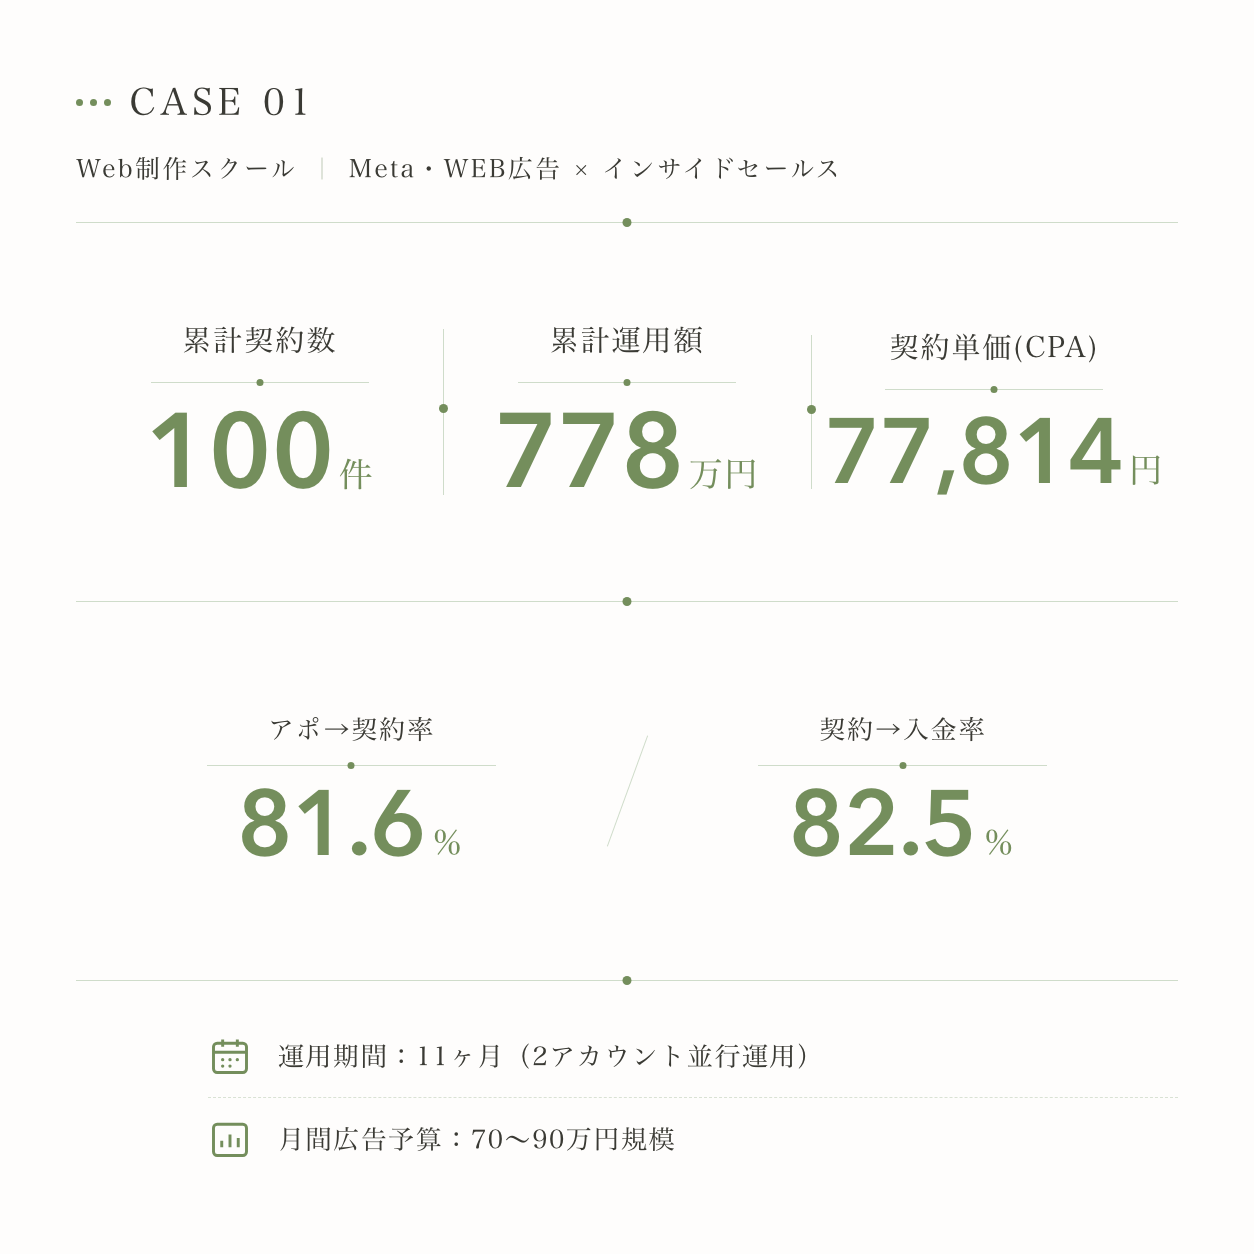
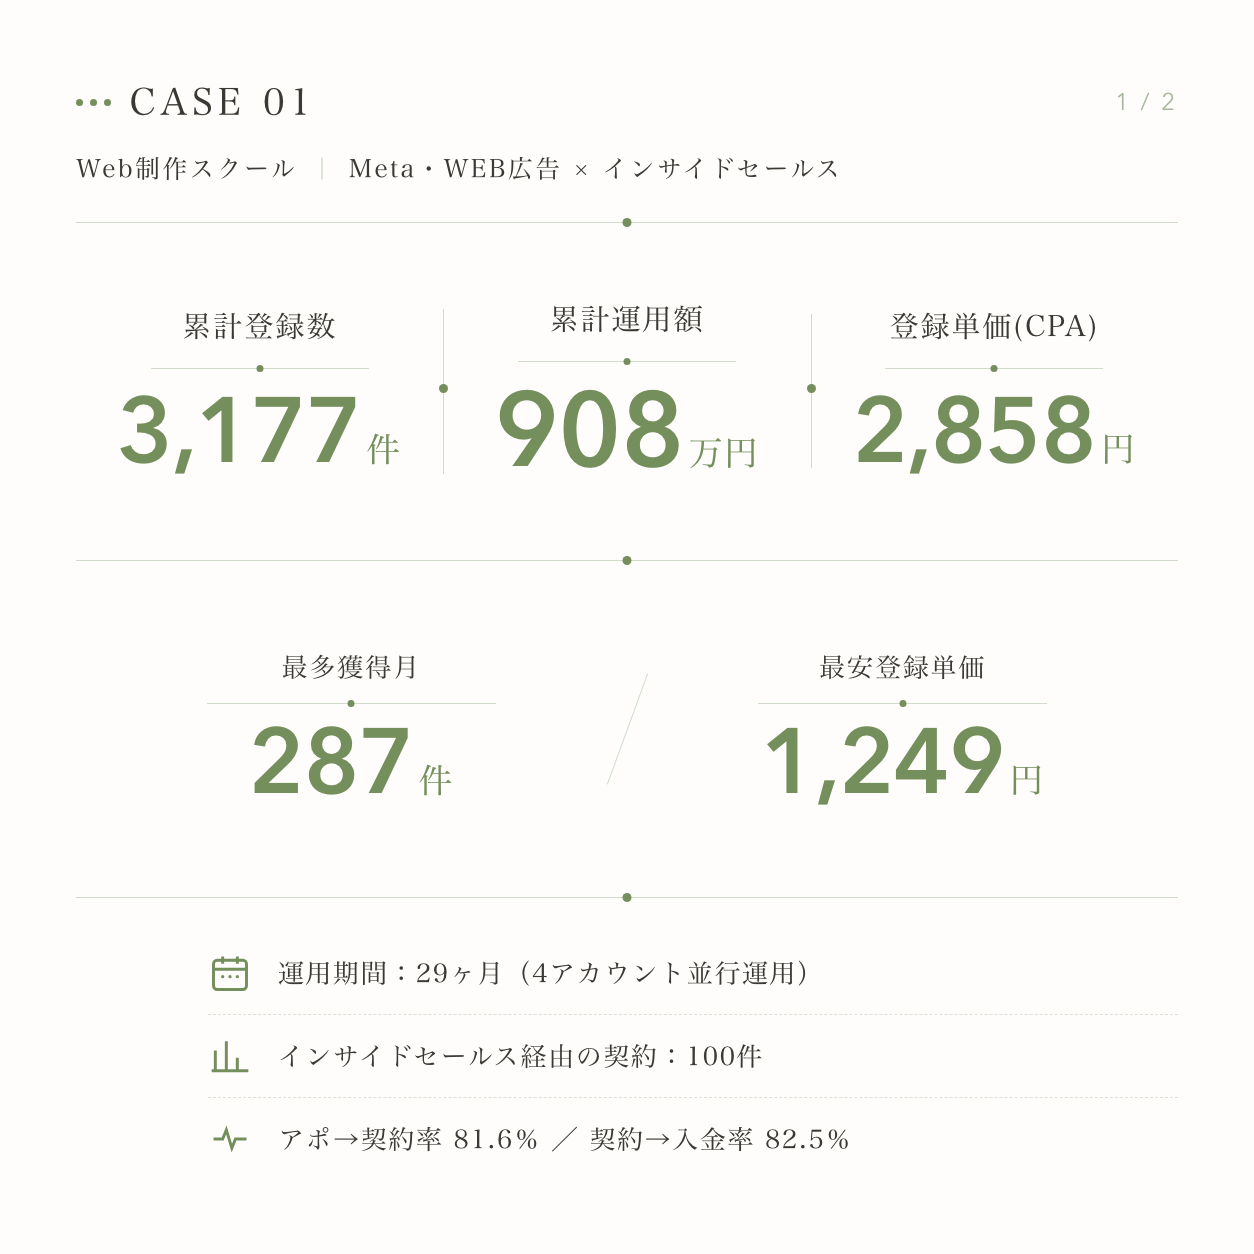
Meta広告の実績を6枚構成に拡張（全案件を①サマリー＋②詳細の2枚に）
CASE01: 全4アカウントのAPI実測値で作り直し
  - 908万円 / 登録3,177件 / CPA2,858円 / 29ヶ月
  - 契約100件・アポ→契約率・入金率はMeta外の数字として維持
CASE01②/CASE02②: ファネル（表示→クリック→LP到達→登録）＋月別推移
CASE03②: 2ヶ月では推移が成立しないため目的切替のbefore/after
  - トラフィック目的0件 → CV目的104件

ペアが行をまたぐため、カード見出しに①②を付与

diff --git a/index.html b/index.html
@@ -913,27 +913,54 @@
           <img src="img/meta-case-web-school.png" alt="Web制作スクール Meta・WEB広告 × インサイドセールス 実績">
         </div>
         <div class="work-cat">— Meta広告</div>
-        <div class="work-title">Web制作スクール｜Meta・WEB広告 × インサイドセールス</div>
-        <div class="work-meta">運用11ヶ月 / 2アカウント並行</div>
-        <span class="work-result">累計契約100件</span>
+        <div class="work-title">Web制作スクール①｜Meta・WEB広告 × インサイドセールス</div>
+        <div class="work-meta">運用29ヶ月 / 4アカウント並行</div>
+        <span class="work-result">累計登録3,177件</span>
+      </div>
+      <div class="work-card" data-category="meta">
+        <div class="work-thumb has-image">
+          <img src="img/meta-case-web-school-2.png" alt="Web制作スクール 広告表示から登録までのファネルと月別推移">
+        </div>
+        <div class="work-cat">— Meta広告</div>
+        <div class="work-title">Web制作スクール②｜広告表示から登録までの実数</div>
+        <div class="work-meta">ファネル全体 / 月別推移29ヶ月</div>
+        <span class="work-result">最多月287件</span>
       </div>
       <div class="work-card" data-category="meta">
         <div class="work-thumb has-image">
           <img src="img/meta-case-online-course.png" alt="女性向けオンライン講座 Meta広告 × 公式LINE構築 実績">
         </div>
         <div class="work-cat">— Meta広告</div>
-        <div class="work-title">女性向けオンライン講座｜Meta広告 × 公式LINE構築</div>
+        <div class="work-title">女性向けオンライン講座①｜Meta広告 × 公式LINE構築</div>
         <div class="work-meta">運用19ヶ月 継続中</div>
         <span class="work-result">累計登録461件</span>
+      </div>
+      <div class="work-card" data-category="meta">
+        <div class="work-thumb has-image">
+          <img src="img/meta-case-online-course-2.png" alt="女性向けオンライン講座 広告表示から登録までのファネルと月別推移">
+        </div>
+        <div class="work-cat">— Meta広告</div>
+        <div class="work-title">女性向けオンライン講座②｜広告表示から登録までの実数</div>
+        <div class="work-meta">ファネル全体 / 月別推移</div>
+        <span class="work-result">最多月81件</span>
       </div>
       <div class="work-card" data-category="meta">
         <div class="work-thumb has-image">
           <img src="img/meta-case-beauty-school.png" alt="美容サロン系スクール Meta広告 × 公式LINE誘導 実績">
         </div>
         <div class="work-cat">— Meta広告</div>
-        <div class="work-title">美容サロン系スクール｜Meta広告 × 公式LINE誘導</div>
+        <div class="work-title">美容サロン系スクール①｜Meta広告 × 公式LINE誘導</div>
         <div class="work-meta">運用2ヶ月 継続中</div>
         <span class="work-result">LINE誘導104件</span>
+      </div>
+      <div class="work-card" data-category="meta">
+        <div class="work-thumb has-image">
+          <img src="img/meta-case-beauty-school-2.png" alt="美容サロン系スクール キャンペーン目的の再設計 before after">
+        </div>
+        <div class="work-cat">— Meta広告</div>
+        <div class="work-title">美容サロン系スクール②｜キャンペーン目的の再設計</div>
+        <div class="work-meta">ファネル全体 / 目的切替の効果</div>
+        <span class="work-result">0件→104件</span>
       </div>
       <div class="work-card" data-category="richmenu">
         <div class="work-thumb has-image">
